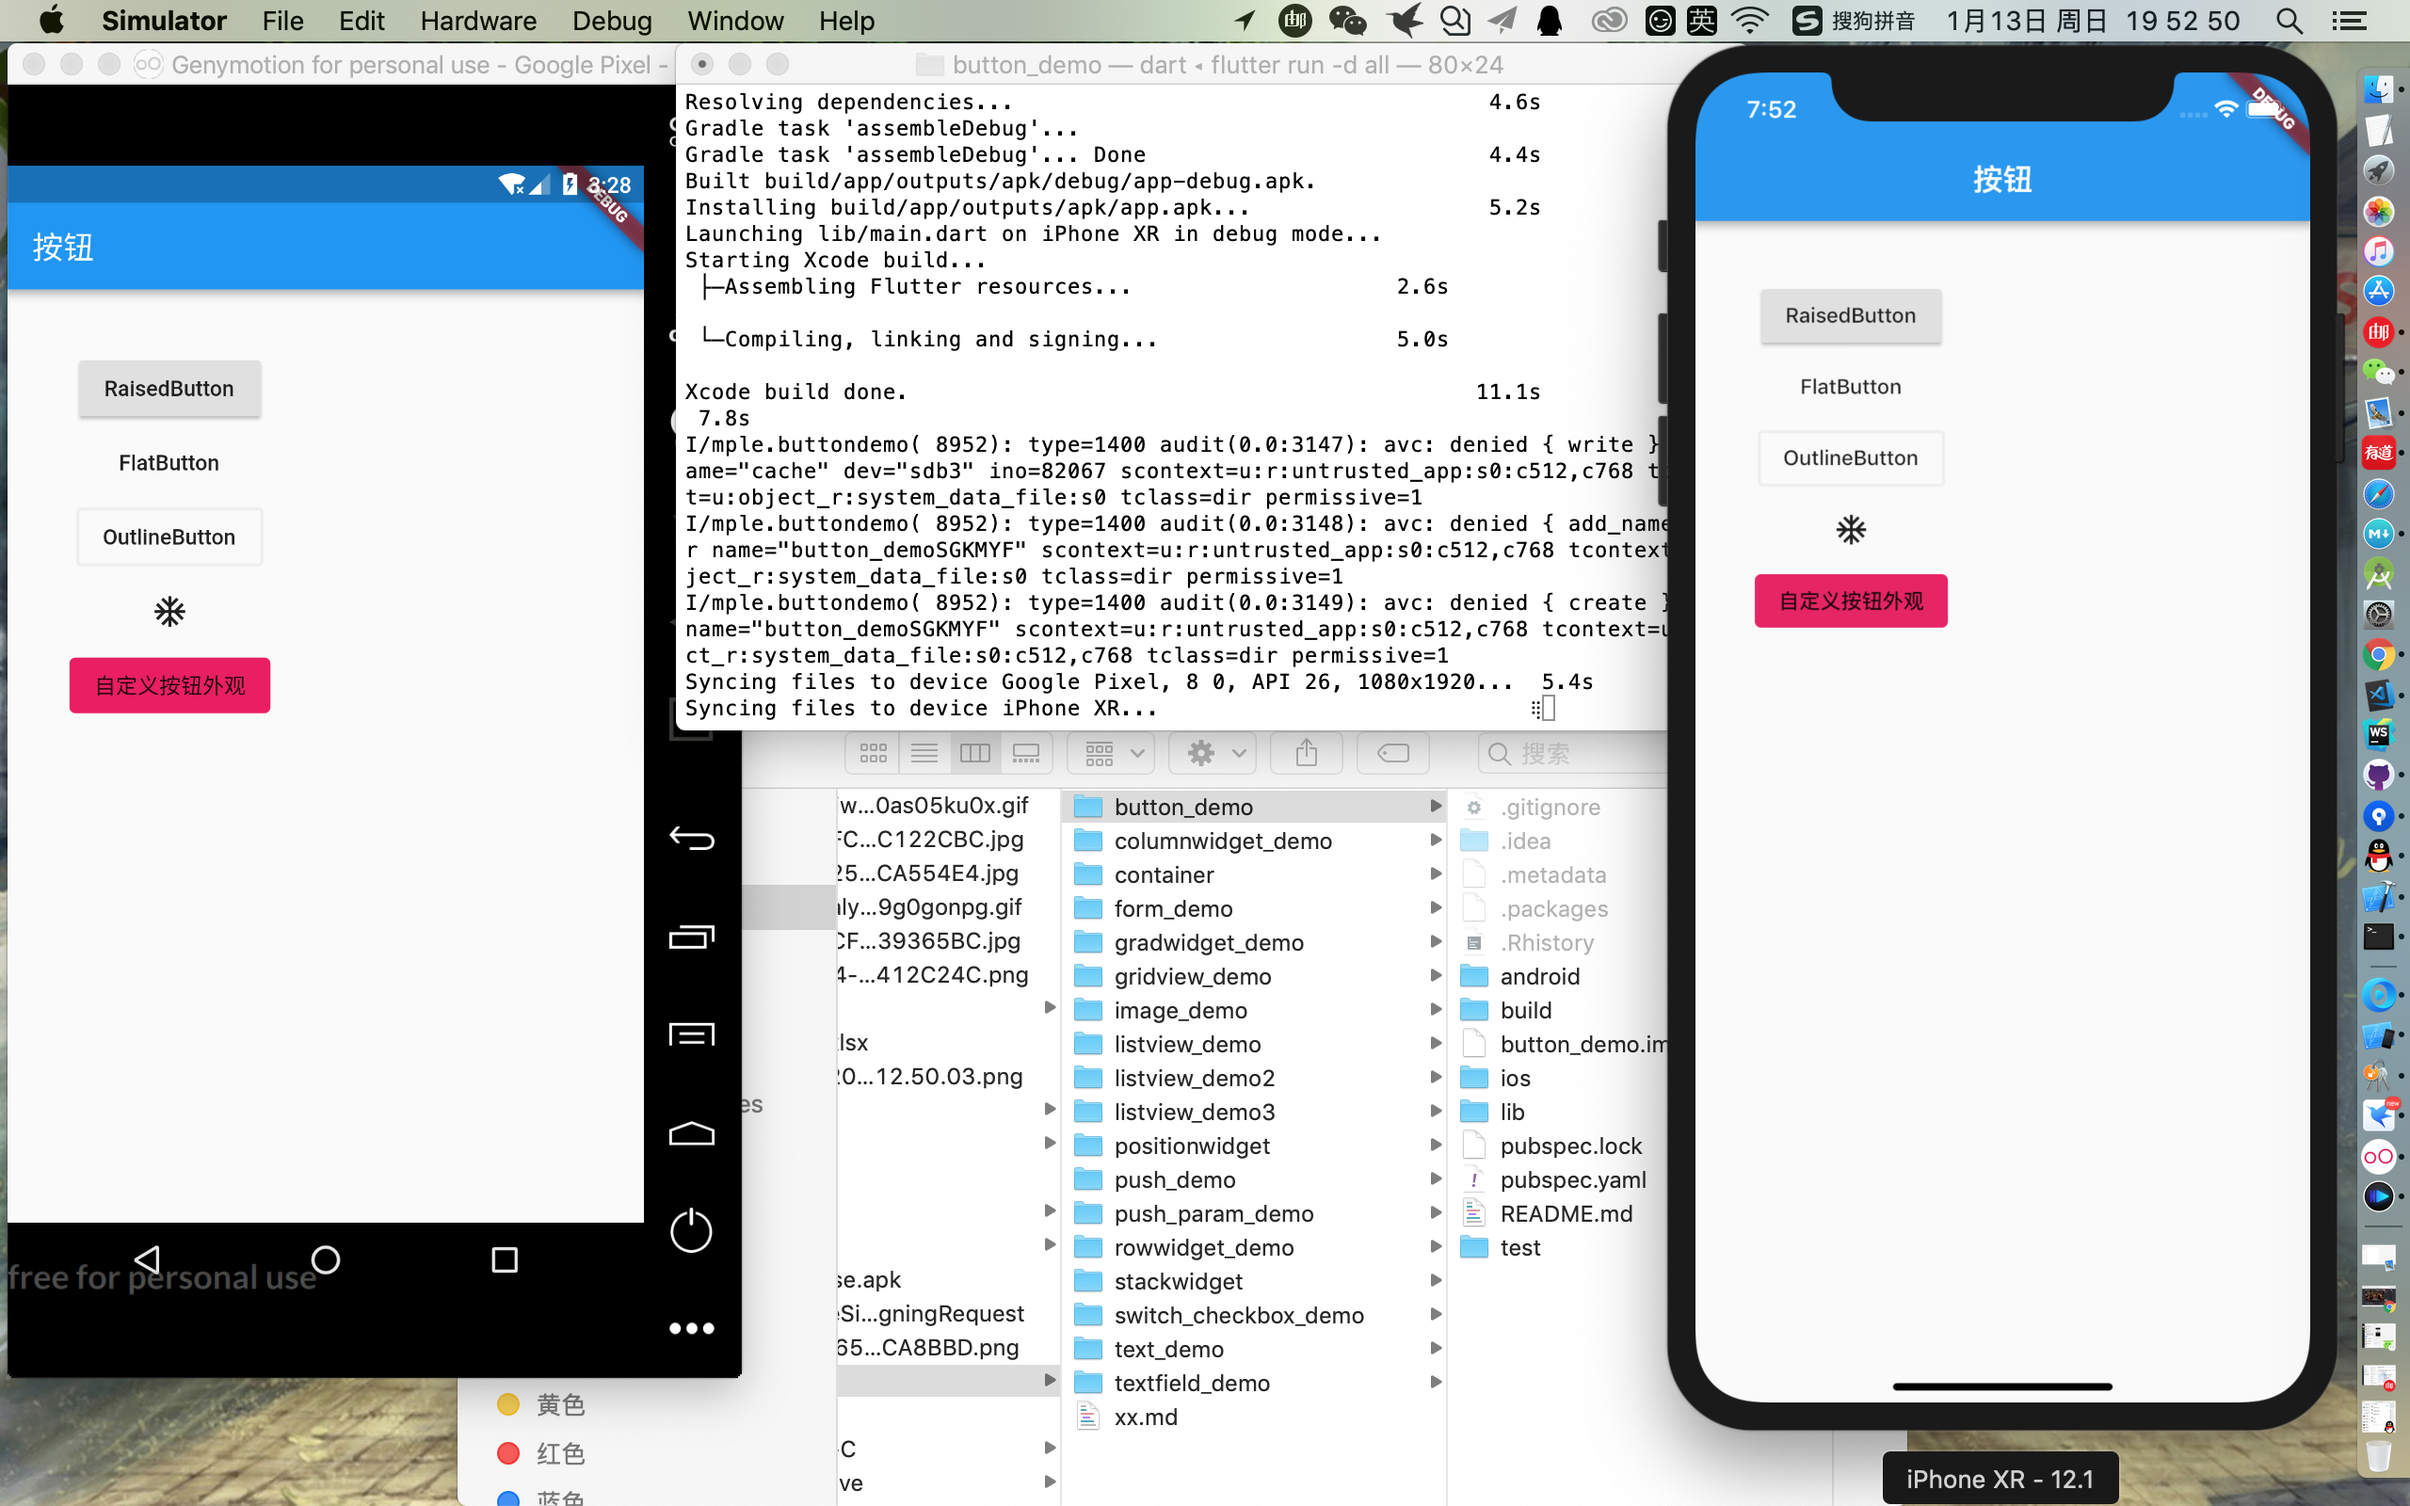
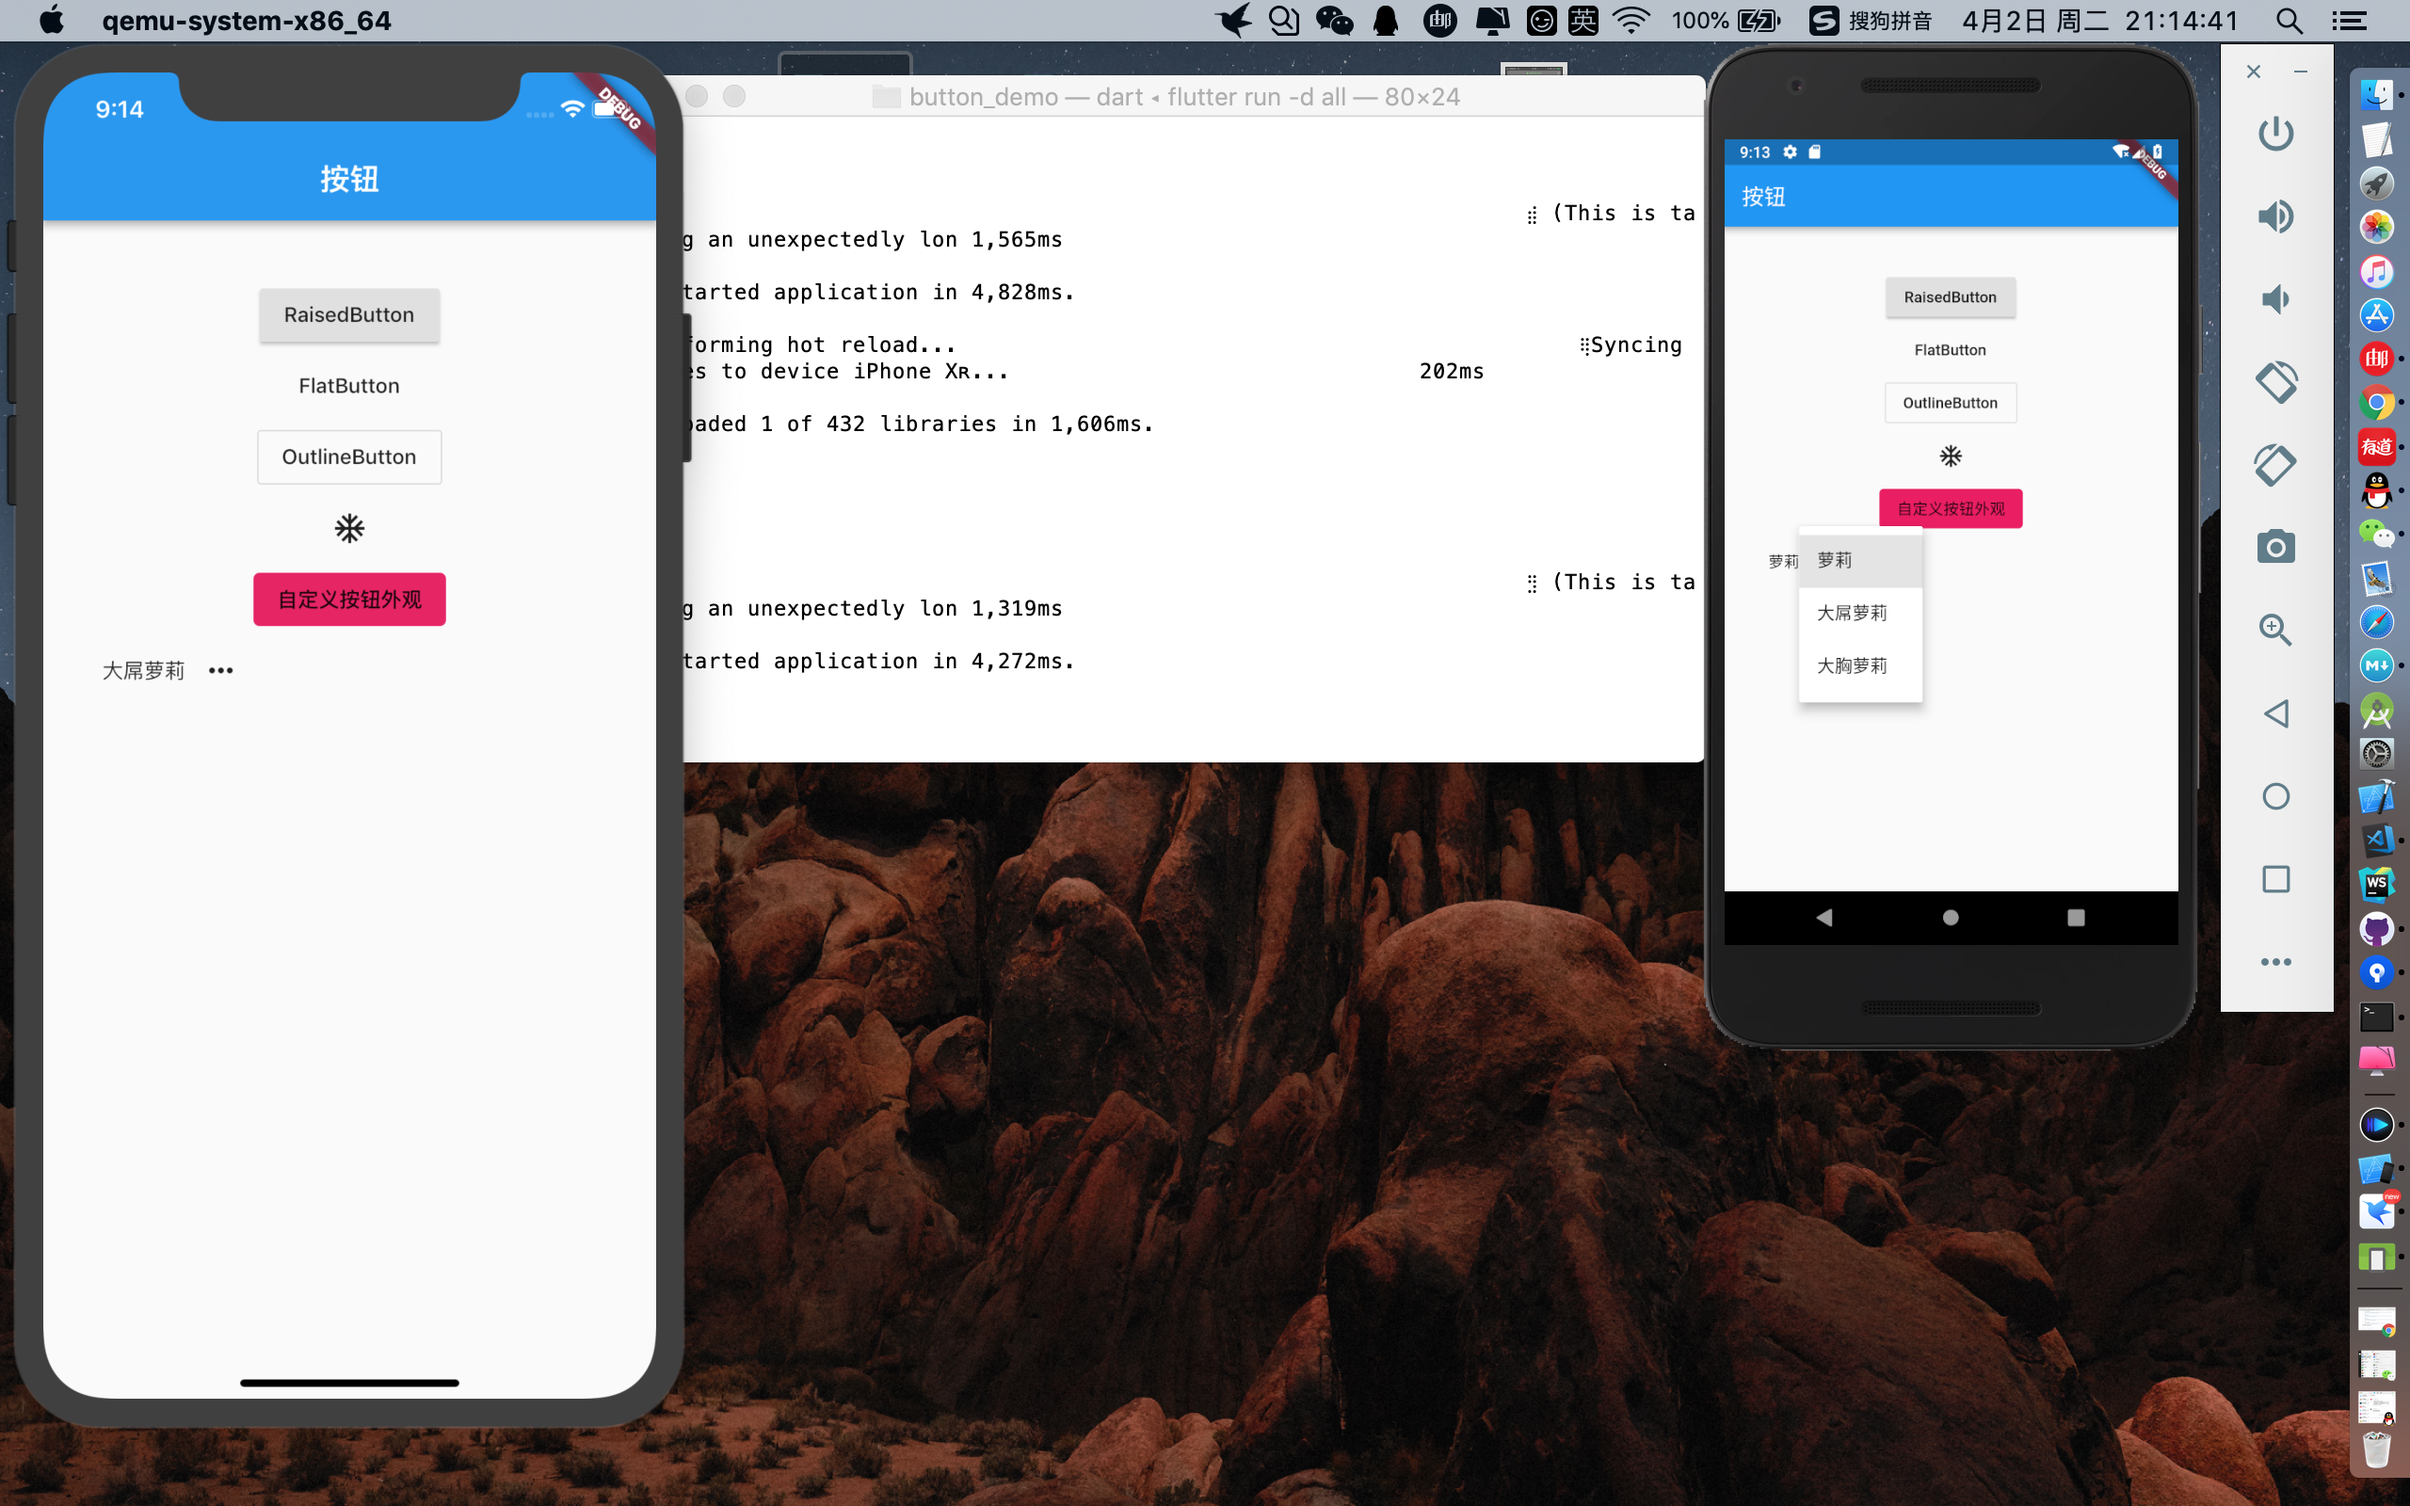
添加PopupMenuButton
添加PopupMenuButton

diff --git a/基础Widget/button_demo/lib/main.dart b/基础Widget/button_demo/lib/main.dart
@@ -43,8 +43,58 @@ class MyApp extends StatelessWidget {
                 },
               ),
               // 自定义按钮外观 FlatButton为例
-              /**
-               *  
+              FlatButton(
+                child: Text('自定义按钮外观'),
+                color: Colors.pink,
+                highlightColor: Colors.red[700],
+                splashColor: Colors.black,
+                shape: RoundedRectangleBorder(
+                    borderRadius: BorderRadius.circular(4.00)),
+                onPressed: () {
+                  print('自定义样式外观');
+                },
+              ),
+              MenuBtn()
+              
+            ],
+          ),
+        ),
+      ),
+    );
+  }
+}
+class MenuBtn extends StatefulWidget {
+  @override
+  _MenuBtnState createState() => _MenuBtnState();
+}
+
+class _MenuBtnState extends State<MenuBtn> {
+  String _value = '萝莉';
+  @override
+  Widget build(BuildContext context) {
+    return Row(
+      children: <Widget>[
+        Text(_value),
+        PopupMenuButton(
+                initialValue: '萝莉',
+                onCanceled: () {},
+                onSelected: (value) {
+                    setState(() {
+                      _value = value;
+                    });
+                },
+                itemBuilder: (BuildContext context) => [
+                      PopupMenuItem(value: '萝莉', child: Text('萝莉')),
+                      PopupMenuItem(value: '大屌萝莉', child: Text('大屌萝莉')),
+                      PopupMenuItem(value: '大胸萝莉', child: Text('大胸萝莉')),
+                    ],
+              )
+      ],
+    );
+  }
+}
+/**       
+               *  FlatButton
                *  @required this.onPressed, //按钮点击回调
                *  this.textColor, //按钮文字颜色
                *  this.disabledTextColor, //按钮禁用时的文字颜色
@@ -57,21 +107,4 @@ class MyApp extends StatelessWidget {
                * this.shape, //外形
                * @required this.child, //按钮的内容
                */
-              FlatButton(
-                child: Text('自定义按钮外观'),
-                color: Colors.pink,
-                highlightColor: Colors.red[700],
-                splashColor: Colors.black,
-                shape: RoundedRectangleBorder(
-                    borderRadius: BorderRadius.circular(4.00)),
-                onPressed: () {
-                  print('自定义样式外观');
-                },
-              )
-            ],
-          ),
-        ),
-      ),
-    );
-  }
-}
+              
